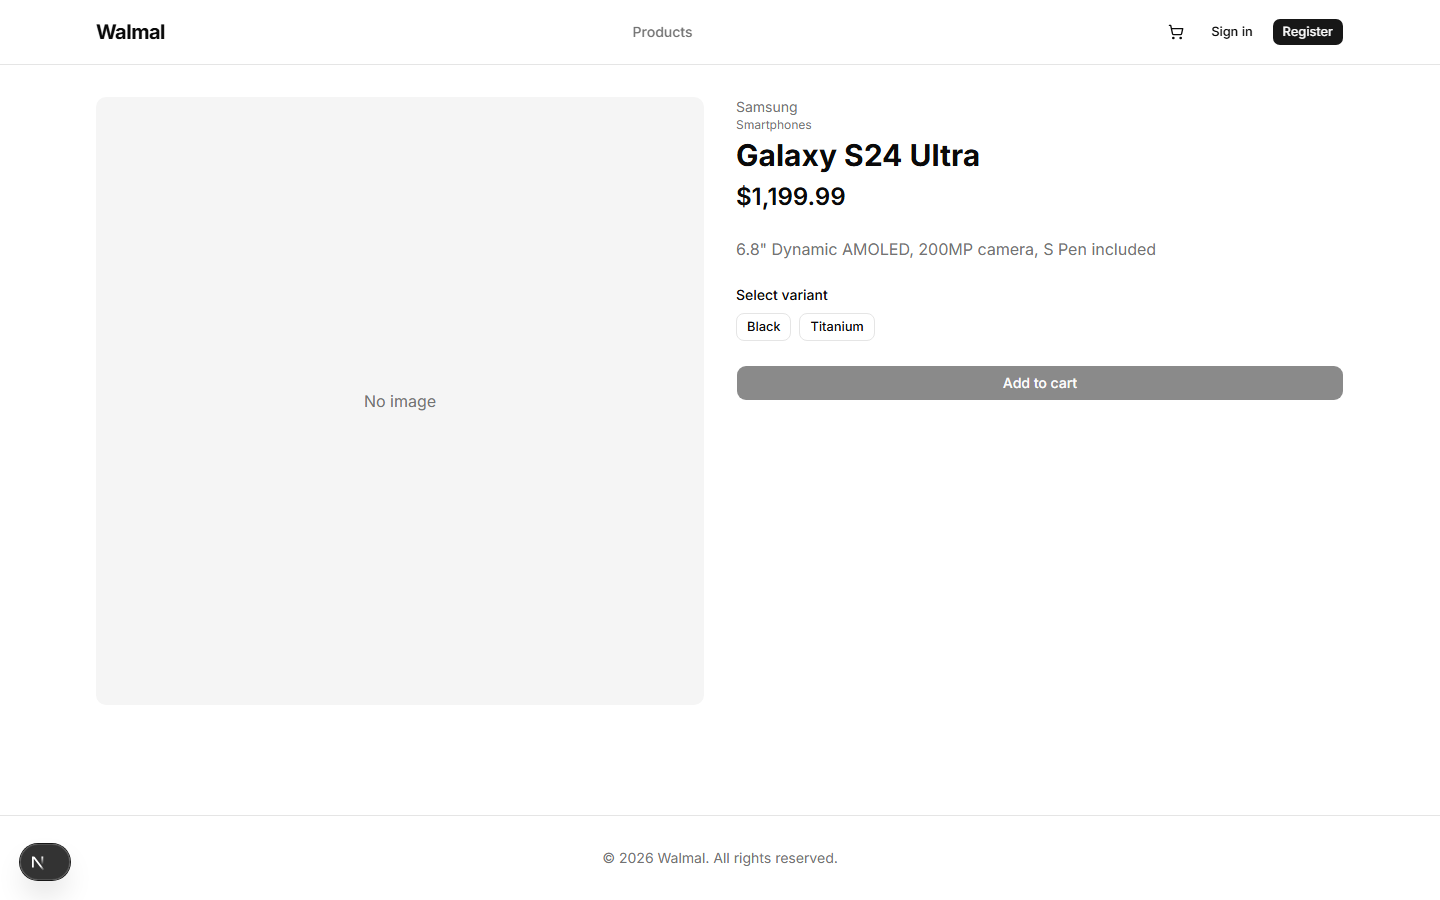
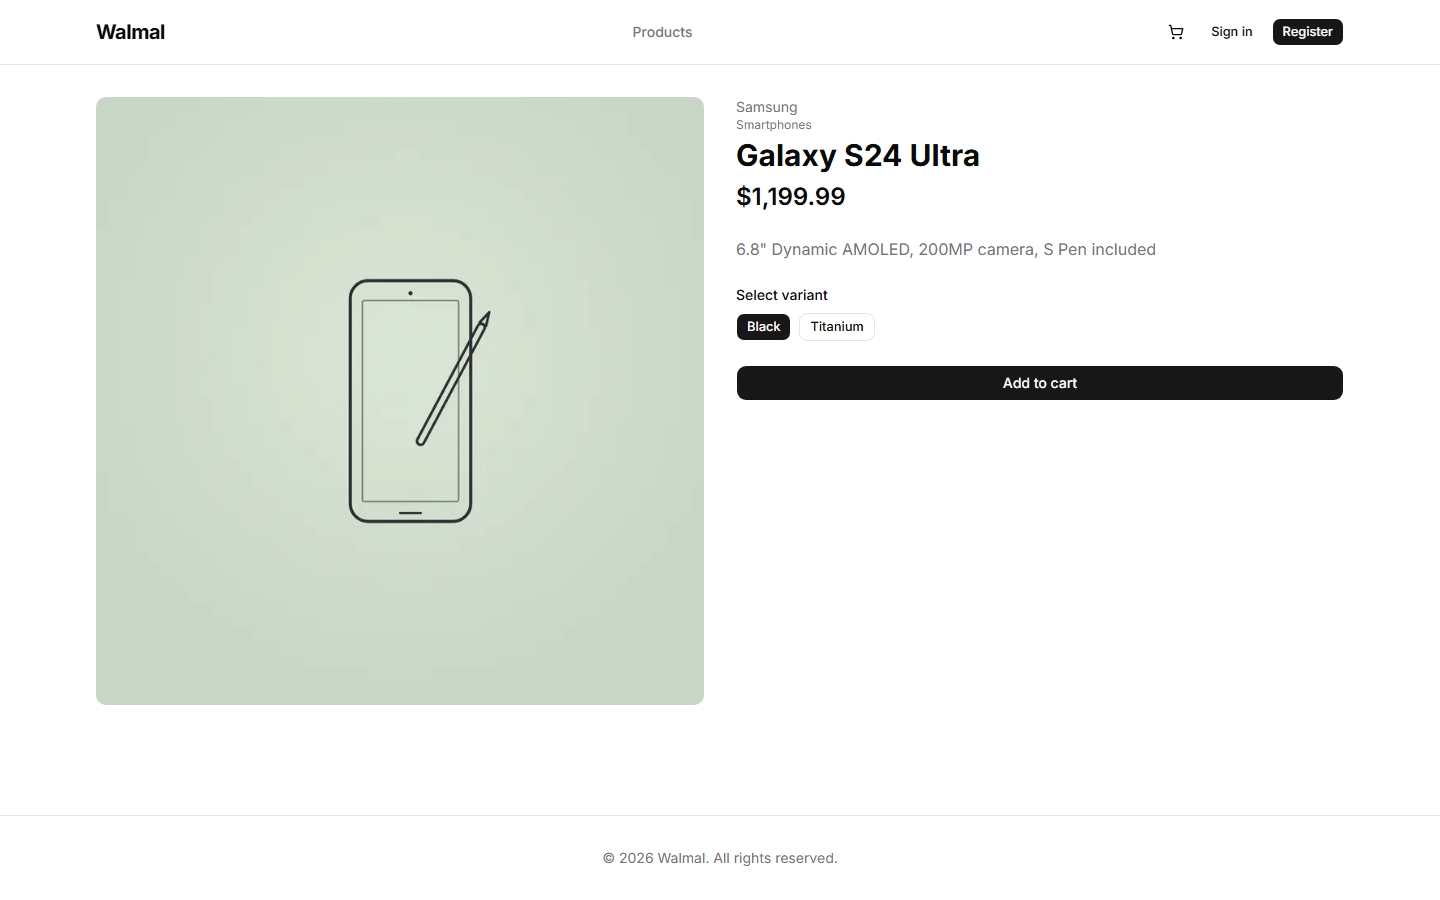
docs(readme): real product images in screenshots + review fixes
Recaptures the 3 README screenshots now that the 5 demo products have
seeded images (walmal scripts/seed-product-images.ps1) — home.png and
product.png no longer show "No image" placeholders, and product.png now
has a variant selected so "Add to cart" is visibly active. All three hide
the Next.js dev-tools badge (nextjs-portal) that leaked into the previous
captures.

Review fixes: moved the product screenshot out of the Stripe CardElement
bullet into a new variant-selection/catalog-browsing bullet; added a line
noting the 45/45 PASS frontend security checklist; fixed "32 unique specs"
wording to "32 unique tests".

diff --git a/README.md b/README.md
@@ -11,11 +11,15 @@ the live backend rather than mocks.
 
 - **Guest and registered checkout** — `/checkout` offers "Continue as guest"
   or sign-in; guest orders capture email + shipping address inline.
+- **Variant selection + catalog browsing** — product detail pages list
+  active variants as selectable pills; "Add to cart" stays disabled until
+  one is chosen.
+
+  ![Product detail with a variant selected](docs/images/product.png)
+
 - **Stripe CardElement payments (test mode)** — `checkout-form.tsx` requests
   a `clientSecret` from `POST /api/payment-intent`, then confirms the card
   payment client-side via `stripe.confirmCardPayment`.
-
-  ![Product detail](docs/images/product.png)
 
   ![Checkout with Stripe CardElement](docs/images/checkout.png)
 
@@ -67,10 +71,13 @@ npm run dev
 
 ## Tests
 
-96 Playwright tests (32 unique specs × chromium/firefox/webkit) run against
+96 Playwright tests (32 unique tests × chromium/firefox/webkit) run against
 the real backend — no mocks. `playwright.config.ts` auto-boots the backend
 (Docker services + a test-profile Spring Boot JAR on `:8080`) and a fresh
 Next.js instance on `:3001` loaded with real Stripe test keys.
+
+The frontend security checklist is 45/45 PASS, tracked in
+[`tests/security/FRONTEND_CHECKLIST.md`](tests/security/FRONTEND_CHECKLIST.md).
 
 ```bash
 npx playwright test